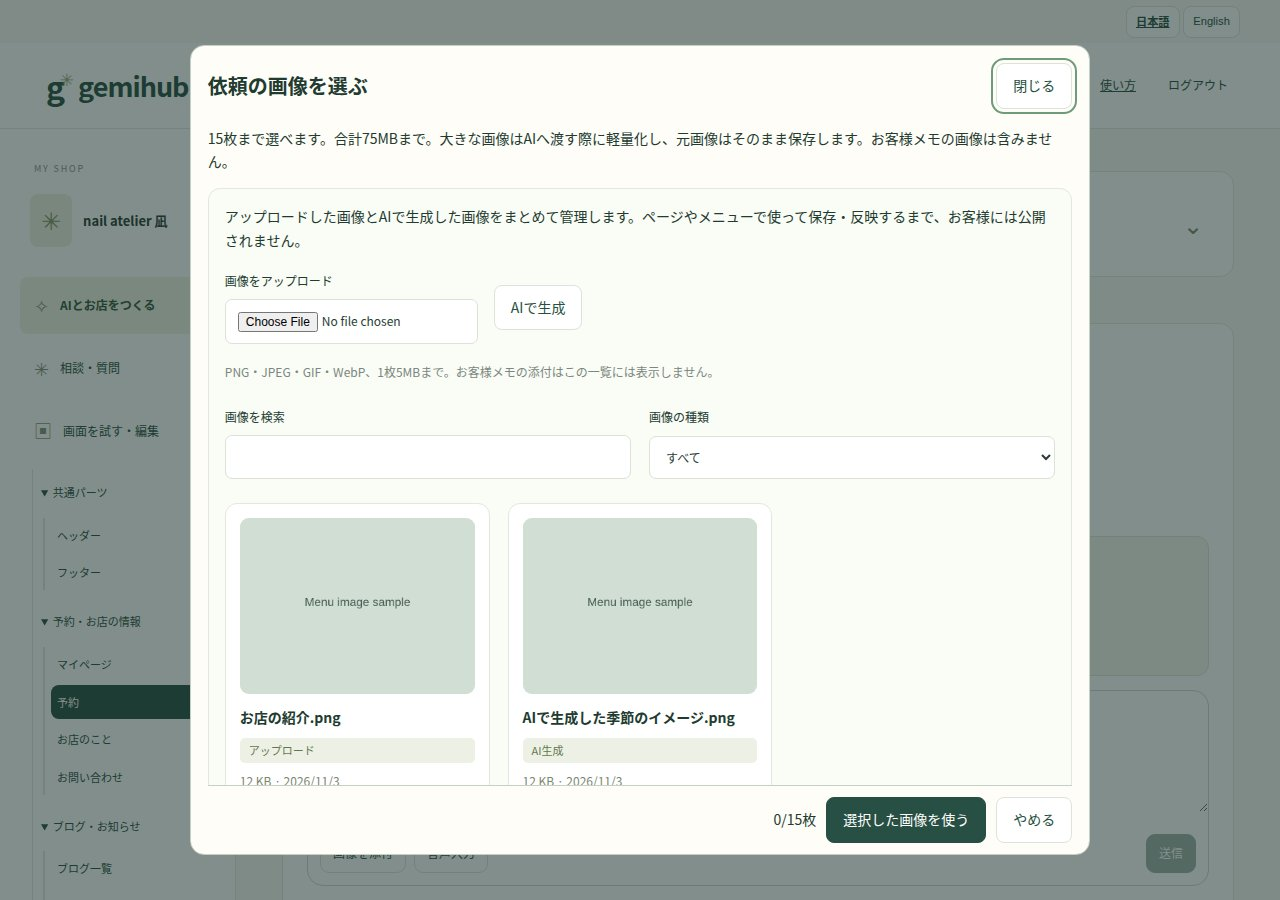
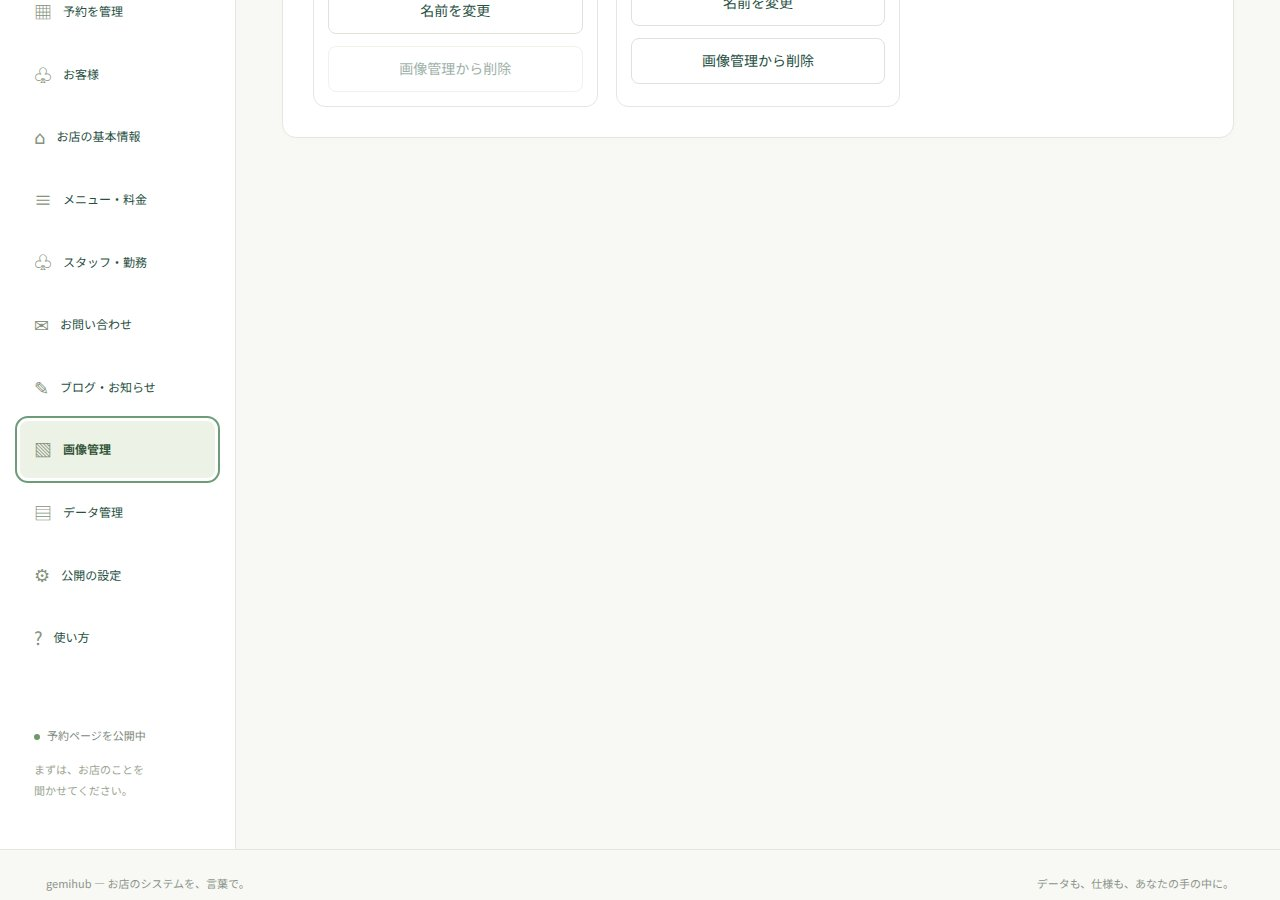
Finalize image management and operator shortcut controls

diff --git a/src/ImageLibrary.tsx b/src/ImageLibrary.tsx
@@ -7,9 +7,10 @@ import { CustomerImageDialog } from "./CustomerImages";
 import { createRequestId } from "./request-id";
 import { generateImageSchema, type GenerateImageInput, type LibraryImage } from "../server/image-library-domain";
 import { RequestImagePicker } from "./RequestImagePicker";
+import { ImageUploadStatus } from "./ImageUploadStatus";
 
 const toData = (file: File) => new Promise<string>((resolve, reject) => { const reader = new FileReader(); reader.onload = () => resolve(String(reader.result).split(",")[1]); reader.onerror = () => reject(new Error(tr("画像を読み込めませんでした"))); reader.readAsDataURL(file); });
-export function ImageLibrary({ shopId, onSelect, onCreated, onRemove, selectedIds = [], onImagesChange, onBusyChange, allowGeneration = true }: { shopId: string; onSelect?: (image: LibraryImage) => void; onCreated?: (image: LibraryImage) => boolean; onRemove?: (id: string) => void; selectedIds?: string[]; onImagesChange?: (images: LibraryImage[] | undefined) => void; onBusyChange?: (busy: boolean) => void; allowGeneration?: boolean }) {
+export function ImageLibrary({ shopId, mode = "manage", onSelect, onCreated, onRemove, selectedIds = [], onImagesChange, onBusyChange, allowGeneration = true }: { shopId: string; mode?: "manage" | "select"; onSelect?: (image: LibraryImage) => void; onCreated?: (image: LibraryImage) => boolean; onRemove?: (id: string) => void; selectedIds?: string[]; onImagesChange?: (images: LibraryImage[] | undefined) => void; onBusyChange?: (busy: boolean) => void; allowGeneration?: boolean }) {
   const api = useApi();
   const base = `/api/shops/${shopId}/images`;
   const pendingKey = `gemihub:image-generation:${shopId}`;
@@ -17,6 +18,8 @@ export function ImageLibrary({ shopId, onSelect, onCreated, onRemove, selectedId
   const [error, setError] = useState("");
   const [notice, setNotice] = useState("");
   const [busy, setBusy] = useState(false);
+  const [uploading, setUploading] = useState(false);
+  const managing = mode === "manage";
   const busyRef = useRef(false);
   const [listening, setListening] = useState(false);
   const [query, setQuery] = useState("");
@@ -49,11 +52,14 @@ export function ImageLibrary({ shopId, onSelect, onCreated, onRemove, selectedId
   async function run(action: () => Promise<void>) { if (busyRef.current) return; busyRef.current = true; setBusy(true); setError(""); setNotice(""); try { await action(); } catch (e) { setError(e instanceof Error ? e.message : String(e)); } finally { busyRef.current = false; setBusy(false); } }
   async function saveUpload(action: { file: File; requestId: string }) {
     await run(async () => {
-      const { imageId } = await api<{ imageId: string }>(base, { requestId: action.requestId, name: action.file.name, mimeType: action.file.type, data: await toData(action.file) });
-      const image: LibraryImage = { id: imageId, name: action.file.name.trim(), mimeType: action.file.type, size: action.file.size, source: "upload", createdAt: new Date().toISOString(), usedBy: [] };
-      setImages(current => [...(current || []).filter(item => item.id !== imageId), image]);
-      setUpload(undefined); setQuery(""); setSource("all");
-      setNotice(onCreated?.(image) === false ? tr("画像を保存しました。選択済みの画像を外してから、この画像を選んでください。") : tr("アップロードした画像を選択しました。内容を確認してから使用してください。"));
+      setUploading(true);
+      try {
+        const { imageId } = await api<{ imageId: string }>(base, { requestId: action.requestId, name: action.file.name, mimeType: action.file.type, data: await toData(action.file) });
+        const image: LibraryImage = { id: imageId, name: action.file.name.trim(), mimeType: action.file.type, size: action.file.size, source: "upload", createdAt: new Date().toISOString(), usedBy: [] };
+        setImages(current => [...(current || []).filter(item => item.id !== imageId), image]);
+        setUpload(undefined); setQuery(""); setSource("all");
+        setNotice(managing ? tr("画像をアップロードしました。") : onCreated?.(image) === false ? tr("画像を保存しました。選択済みの画像を外してから、この画像を選んでください。") : tr("アップロードした画像を選択しました。内容を確認してから使用してください。"));
+      } finally { setUploading(false); }
     });
   }
   function newGeneration() {
@@ -67,9 +73,9 @@ export function ImageLibrary({ shopId, onSelect, onCreated, onRemove, selectedId
   }
   const visible = images?.filter(image => (source === "all" || image.source === source) && `${image.name} ${image.prompt || ""}`.toLowerCase().includes(query.trim().toLowerCase()));
   const zoomIndex = visible?.findIndex(image => image.id === zoomId) ?? -1;
-  return <section className={onSelect ? "image-library image-picker-library" : "panel image-library"} aria-label={onSelect ? tr("画像を選ぶ") : tr("画像管理")}>
-    {!onSelect && <div className="section-top"><h2>{tr("画像管理")}</h2></div>}
-    <p>{tr("アップロードした画像とAIで生成した画像をまとめて管理します。ページやメニューで使って保存・反映するまで、お客様には公開されません。")}</p>
+  return <section className={managing ? "panel image-library" : "image-library image-picker-library"} aria-label={managing ? tr("画像管理") : tr("画像を選ぶ")}>
+    {managing && <div className="section-top"><h2>{tr("画像管理")}</h2></div>}
+    <p>{managing ? tr("アップロードした画像とAIで生成した画像をまとめて管理します。ページやメニューで使って保存・反映するまで、お客様には公開されません。") : allowGeneration ? tr("使う画像を選ぶか、その場でアップロード・AI生成できます。") : tr("使う画像を選ぶか、その場でアップロードできます。")}</p>
     {error && <p className="alert" role="alert">{error}<button type="button" disabled={busy} onClick={() => { setError(""); setAttempt(v => v + 1); }}>{tr("再試行")}</button></p>}{notice && <p className="notice" role="status">{notice}</p>}
     <div className="image-library-tools"><label>{tr("画像をアップロード")}<input type="file" accept="image/png,image/jpeg,image/gif,image/webp" disabled={busy || listening || !images} onChange={event => {
       const file = event.target.files?.[0]; event.target.value = ""; if (!file) return;
@@ -79,7 +85,8 @@ export function ImageLibrary({ shopId, onSelect, onCreated, onRemove, selectedId
     }} /></label>{allowGeneration && <button type="button" disabled={busy || listening} onClick={() => generatorOpen ? setGeneratorOpen(false) : startGeneration()}>{tr("AIで生成")}</button>}</div>
     <p className="small muted">{tr("PNG・JPEG・GIF・WebP、1枚5MBまで。お客様メモの添付はこの一覧には表示しません。")}</p>
     {upload && !busy && <button type="button" onClick={() => void saveUpload(upload)}>{tr("アップロードを再試行")}</button>}
-    {busy && !generatorOpen && <p role="status">{tr("画像を保存しています…")}</p>}
+    {uploading && <ImageUploadStatus name={upload?.file.name} />}
+    {busy && !uploading && !generatorOpen && <p role="status">{tr("画像を保存しています…")}</p>}
     {generatorOpen && <section className="image-generation" aria-label={tr("AIで画像を生成する")}>
       <h3>{tr("AIで画像を生成する")}</h3>
       {!generated && <>
@@ -104,7 +111,7 @@ export function ImageLibrary({ shopId, onSelect, onCreated, onRemove, selectedId
       <div className="actions"><button className="primary" type="submit" disabled={busy || listening || !prompt.trim() || !name.trim()}>{busy ? tr("画像を生成しています…") : pending ? tr("生成・保存を再試行") : tr("生成して結果を確認")}</button>{pending && <button type="button" disabled={busy || listening} onClick={newGeneration}>{tr("新しい生成として入力し直す")}</button>}</div>
     </form>}
     </>}
-    {generated && <section className="request-review image-generation-result" aria-label={tr("生成した画像を確認")}><span className="pill">{tr("確認")}</span><h3>{tr("生成した画像を確認")}</h3><MenuImage imageId={generated.id} imageBase={base} name={generated.name} className="library-image" /><p>{generated.name}</p><p className="small muted">{tr("画像を保存しました。「これでOK」で選択し、この画面で確定すると依頼や編集に使えます。")}</p><div className="actions"><button type="button" onClick={() => { setReference(generated.id); setGenerated(undefined); setMethod(undefined); setNotice(""); }}>{tr("さらに依頼する")}</button><button type="button" className="primary" disabled={!images?.some(image => image.id === generated.id)} onClick={() => { const image = images?.find(image => image.id === generated.id); if (image) onCreated?.(image); setGeneratorOpen(false); setQuery(""); setSource("all"); }}>{tr("これでOK")}</button></div></section>}
+    {generated && <section className="request-review image-generation-result" aria-label={tr("生成した画像を確認")}><span className="pill">{tr("確認")}</span><h3>{tr("生成した画像を確認")}</h3><MenuImage imageId={generated.id} imageBase={base} name={generated.name} className="library-image" /><p>{generated.name}</p><p className="small muted">{managing ? tr("画像管理に保存しました。ページやメニューの画像選択から使用できます。") : tr("画像を保存しました。「これでOK」で選択し、この画面で確定すると依頼や編集に使えます。")}</p><div className="actions"><button type="button" onClick={() => { setReference(generated.id); setGenerated(undefined); setMethod(undefined); setNotice(""); }}>{tr("さらに依頼する")}</button><button type="button" className="primary" disabled={!images?.some(image => image.id === generated.id)} onClick={() => { const image = images?.find(image => image.id === generated.id); if (image) onCreated?.(image); setGeneratorOpen(false); setQuery(""); setSource("all"); }}>{tr("これでOK")}</button></div></section>}
     </section>}
     <div className="customer-controls"><label>{tr("画像を検索")}<input type="search" value={query} onChange={event => setQuery(event.target.value)} /></label><label>{tr("画像の種類")}<select value={source} onChange={event => setSource(event.target.value)}><option value="all">{tr("すべて")}</option><option value="upload">{tr("アップロード")}</option><option value="ai">{tr("AI生成")}</option></select></label></div>
     {!images && !error && <p role="status">{tr("画像を読み込んでいます…")}</p>}
@@ -113,9 +120,11 @@ export function ImageLibrary({ shopId, onSelect, onCreated, onRemove, selectedId
       <button type="button" className="image-preview-button" aria-label={tr("{0}を拡大", image.name)} onClick={() => setZoomId(image.id)}><MenuImage imageId={image.id} imageBase={base} name={image.name} className="library-image" /></button>
       <figcaption><strong>{image.name}</strong><span className="pill">{image.source === "ai" ? tr("AI生成") : tr("アップロード")}</span><small>{Math.ceil(image.size / 1024)} KB{image.createdAt && ` · ${new Date(image.createdAt).toLocaleDateString(intlLocale())}`}</small>{image.usedBy.length > 0 && <p className="small muted">{tr("使用中：")}{image.usedBy.join("、")}</p>}</figcaption>
       {image.prompt && <details><summary>{tr("生成したときの指示")}</summary><p className="pre-wrap">{image.prompt}</p></details>}
-      <div className="actions">{onSelect && <button type="button" className="primary" aria-pressed={selectedIds.includes(image.id)} aria-label={tr("{0}を選択", image.name)} disabled={busy || listening} onClick={() => onSelect(image)}>{selectedIds.includes(image.id) ? tr("✓ 選択中") : tr("選択する")}</button>}{allowGeneration && <button type="button" disabled={busy || listening || !!pending} onClick={() => startGeneration(image.id)}>{tr("この画像をもとに生成")}</button>}</div>
+      <div className="actions">{onSelect && <button type="button" className="primary" aria-pressed={selectedIds.includes(image.id)} aria-label={tr("{0}を選択", image.name)} disabled={busy || listening} onClick={() => onSelect(image)}>{selectedIds.includes(image.id) ? tr("✓ 選択中") : tr("選択する")}</button>}{managing && allowGeneration && <button type="button" disabled={busy || listening || !!pending} onClick={() => startGeneration(image.id)}>{tr("この画像をもとに生成")}</button>}</div>
+      {managing && <>
       {editing?.id === image.id ? <form onSubmit={event => { event.preventDefault(); event.stopPropagation(); void run(async () => { await api(`${base}/${image.id}/rename`, { name: editing.name }); setEditing(undefined); setAttempt(v => v + 1); setNotice(tr("画像の名前を変更しました。")); }); }}><label>{tr("新しい画像名")}<input required maxLength={255} value={editing.name} disabled={busy} onChange={event => setEditing({ ...editing, name: event.target.value })} /></label><div className="actions"><button type="submit" disabled={busy}>{tr("名前を保存")}</button><button type="button" disabled={busy} onClick={() => setEditing(undefined)}>{tr("やめる")}</button></div></form> : <button type="button" disabled={busy} onClick={() => setEditing({ id: image.id, name: image.name })}>{tr("名前を変更")}</button>}
       {deleting === image.id ? <div className="notice">{tr("画像管理から削除します。Drive のファイルは残ります。")}<div className="actions"><button type="button" disabled={busy} onClick={() => void run(async () => { await api(`${base}/${image.id}/archive`, {}); onRemove?.(image.id); setDeleting(undefined); setAttempt(v => v + 1); setNotice(tr("画像管理から削除しました。")); })}>{tr("削除する")}</button><button type="button" disabled={busy} onClick={() => setDeleting(undefined)}>{tr("やめる")}</button></div></div> : <button type="button" disabled={busy || image.usedBy.length > 0} onClick={() => setDeleting(image.id)}>{tr("画像管理から削除")}</button>}
+      </>}
     </figure>)}</div>
     {zoomIndex >= 0 && <CustomerImageDialog items={visible!.map(image => ({ file: { id: image.id, name: image.name, mimeType: image.mimeType, size: image.size }, path: `${base}/${image.id}`, createdAt: image.createdAt || undefined }))} initialIndex={zoomIndex} close={() => setZoomId(undefined)} />}
   </section>;

diff --git a/src/App.tsx b/src/App.tsx
@@ -33,6 +33,7 @@ import "./style.css";
 import { LegacyNotes } from "./LegacyNotes";
 import { JudgeStart, JudgeMenu, JudgeBar, AccessPassword } from "./JudgeAccess";
 import { ShopReset } from "./ShopReset";
+import { ImageLibrary } from "./ImageLibrary";
 import { Admin } from "./Admin";
 import { Assistant } from "./Assistant";
 import { paid, createDisplay, useShopDisplay, ShopRegionContext } from "./money";
@@ -86,9 +87,20 @@ export function App({
   const [error, setError] = useState("");
   const [busy, setBusy] = useState(false);
   const [notice, setNotice] = useState("");
+  const [showOperatorControls, setShowOperatorControls] = useState(false);
   const refresh = () => api<Session>("/api/session").then(setSession);
   useEffect(() => {
     refresh().catch((e) => setError(e.message));
+  }, []);
+  useEffect(() => {
+    const toggleOperatorControls = (event: KeyboardEvent) => {
+      if (event.ctrlKey && event.shiftKey && !event.altKey && !event.metaKey && !event.isComposing && (event.code === "KeyL" || event.key.toLowerCase() === "l")) {
+        event.preventDefault();
+        if (!event.repeat) setShowOperatorControls(value => !value);
+      }
+    };
+    window.addEventListener("keydown", toggleOperatorControls);
+    return () => window.removeEventListener("keydown", toggleOperatorControls);
   }, []);
   async function run(fn: () => Promise<void>) {
     setBusy(true);
@@ -127,8 +139,8 @@ export function App({
           </span>
           {session.user?.role === "owner" && session.user.legacyNotes && <a className="text-button" href="/settings/migration">{tr("旧環境からの引き継ぎ")}</a>}
           {session.user?.judge && <a className="text-button" href="/judge-menu">{tr("審査メニュー")}</a>}
-          {session.user?.admin && <a className="text-button" href="/admin">{tr("運営管理")}</a>}
-          {session.user?.role === "owner" && session.user.shopId && !session.user.judge && !session.user.legacyNotes && !session.user.accessPending && <ShopReset shopId={session.user.shopId} navigate={navigate} />}
+          {showOperatorControls && session.user?.admin && <a className="text-button" href="/admin">{tr("運営管理")}</a>}
+          {session.user?.role === "owner" && session.user.shopId && !session.user.judge && !session.user.legacyNotes && !session.user.accessPending && <ShopReset shopId={session.user.shopId} navigate={navigate} showButton={showOperatorControls} />}
           {!session.user && <a className="text-button" href="/lp">{tr("サービス紹介")}</a>}
           {!isPublic && (
             <a className="text-button" href="/manual">
@@ -347,7 +359,7 @@ function Dashboard({
   const shop = shops.find((s) => s.id === chosen) || shops[0];
   const creating = !!shop?.isOwner && !shop.published;
   const view = creating ? "build" : tab;
-  useEffect(() => { if (shop && !shop.isOwner && ["try", "data"].includes(tab)) setTab("bookings"); }, [shop?.id, shop?.isOwner, tab]);
+  useEffect(() => { if (shop && !shop.isOwner && ["try", "data", "images"].includes(tab)) setTab("bookings"); }, [shop?.id, shop?.isOwner, tab]);
   const activePlan =
     plan && plan.base === shop?.revision && shop.plans.some((p) => p.id === plan.id)
       ? plan
@@ -398,7 +410,7 @@ function Dashboard({
             ["inquiries", "✉", tr("お問い合わせ")],
             ["blog", "✎", tr("ブログ・お知らせ")],
             ...(!shop?.isOwner ? [["staff", "♧", tr("自分のカレンダー")]] : []),
-            ...(shop?.isOwner ? [["data", "▤", tr("データ管理")]] : []),
+            ...(shop?.isOwner ? [["images", "▧", tr("画像管理")], ["data", "▤", tr("データ管理")]] : []),
             ["settings", "⚙", tr("公開の設定")],
             ["manual", "?", tr("使い方")],
           ].map(([id, icon, label]) => (
@@ -496,6 +508,7 @@ function Dashboard({
                 )}
                 {!creating && <div hidden={view!=="inquiries"}><Inquiries shopId={shop.id} inquiries={shop.inquiries}/></div>}
                 {view === "data" && shop.isOwner && <DataManagement key={shop.id} shopId={shop.id} open={setTab} showMenus={openDataMenu} />}
+                {view === "images" && shop.isOwner && <ImageLibrary key={shop.id} shopId={shop.id} />}
                 {view === "settings" && (
                   <Settings shop={shop} run={run} reload={load} hasLegacyNotes={!!session.user?.legacyNotes} />
                 )}

diff --git a/src/Manual.tsx b/src/Manual.tsx
@@ -269,15 +269,16 @@ const chapters: { id: string; title: string; steps: Step[] }[] = [
       {
         id: "image-library",
         get title() { return tr("画像をまとめて管理し、ページに使う"); },
-        get lead() { return tr("依頼や編集画面の画像選択モーダルで、画像のアップロード・AI生成・管理をまとめて行えます。"); },
+        get lead() { return tr("メニューの「画像管理」で画像を管理できます。依頼や編集時の画像選択では、アップロード・AI生成・選択ができます。"); },
         get instructions() { return [
           tr("チャットの「画像を添付」や編集画面の画像選択を開きます。「画像をアップロード」でPNG・JPEG・GIF・WebPの5MB以内の画像を選ぶと、自動で選択されます。最後に「選択した画像を使う」で確定します。検索・種類の絞り込み・拡大も同じ画面でできます。"),
           tr("登録時に使う画面を指定する必要はありません。使用中の画面名は一覧で確認できます。文章・音声・ペンで依頼するときやAIでページを作るときに、チャットの「画像を添付」（ペンでの依頼では「依頼に使う画像を選ぶ」）から管理画像を15枚まで（合計75MB以内）選び、どのように使いたいか伝えてください。変更案の確認・承認・公開まで本番には反映されません。"),
           tr("新しいページやAIが作ったページ案では、編集欄の「画像管理から選ぶ・AIで生成」から画像を選べます。共通ヘッダーとメニューにも同じ選択ボタンがあります。メニューの変更は「保存」で反映します。"),
-          tr("画像の「名前を変更」で名前を編集できます。使用していない画像は「画像管理から削除」から確認して削除できます。Drive のファイル本体は残ります。"),
+          tr("「この画像をもとに生成」「名前を変更」「画像管理から削除」は、メニューの「画像管理」だけに表示します。使用していない画像は確認して削除できます。Drive のファイル本体は残ります。"),
+          tr("アップロード中はスピナー・ファイル名・「画像をアップロードしています…」を表示します。表示が消えるまで待ち、失敗した場合は同じ画面から再試行してください。"),
         ]; },
         image: "30-image-library.jpg",
-        extra: [{ image: "32-page-image.jpg", get caption() { return tr("画像選択モーダルで、アップロード・AI生成・既存画像からの選択ができます。"); } }],
+        extra: [{ image: "32-page-image.jpg", get caption() { return tr("画像選択モーダルで、アップロード・AI生成・既存画像からの選択ができます。"); } }, { image: "36-image-uploading.jpg", get caption() { return tr("アップロード中はスピナーとファイル名を表示します。"); } }],
         get caption() { return tr("アップロード画像とAI生成画像を、使用中の画面名や登録元と一緒に管理する一覧。"); },
         get tip() { return tr("登録しただけではお客様には公開されません。お客様メモの画像は「お客様」の詳細にある「画像一覧」で確認できます。画像管理や依頼の画像選択には表示しません。使用中の画像は、ページやメニューから外して本番に反映してから削除してください。"); },
       },

diff --git a/src/stories/ImageLibrary.stories.tsx b/src/stories/ImageLibrary.stories.tsx
@@ -1,7 +1,7 @@
 import React from "react";
 import { tr } from "../../shared/i18n";
 import type { Meta, StoryObj } from "@storybook/react-vite";
-import { within, userEvent } from "storybook/test";
+import { within, userEvent, waitFor, expect } from "storybook/test";
 import { Screen } from "./Screen";
 const meta = { title: "運営/画像管理", component: Screen, parameters: { layout: "fullscreen" }, render: args => <Screen key={args.scenario} {...args} /> } satisfies Meta<typeof Screen>;
 export default meta;
@@ -12,7 +12,8 @@ async function openPicker(canvasElement: HTMLElement) {
   await userEvent.click(await canvas.findByRole("button", { name: tr("画像を添付") }));
   return within(await within(canvasElement.ownerDocument.body).findByRole("dialog", { name: tr("依頼の画像を選ぶ") }));
 }
-export const Library: Story = { name: "管理画像・アップロード・使用中の画面", args: { scenario: "image-library" }, play: async ({ canvasElement }) => { await openPicker(canvasElement); } };
+export const Library: Story = { name: "管理画像・アップロード・使用中の画面", args: { scenario: "image-library" }, play: async ({ canvasElement }) => { await userEvent.click(await within(canvasElement).findByRole("button", { name: new RegExp(tr("画像管理") + "$") })); } };
+export const Uploading: Story = { name: "画像アップロード中・スピナーとファイル名", args: { scenario: "image-library-uploading" }, play: async ({ canvasElement }) => { const input = await within(canvasElement).findByLabelText(tr("画像をアップロード")); await waitFor(() => expect(input).toBeEnabled()); await userEvent.upload(input, new File(["uploading"], "shop-photo.png", { type: "image/png" })); } };
 export const Generate: Story = { name: "文章で画像生成・参考画像", args: { scenario: "image-library-generation" }, play: async ({ canvasElement }) => { const picker = await openPicker(canvasElement); await userEvent.click(picker.getByRole("button", { name: tr("AIで生成") })); await userEvent.click(picker.getByRole("button", { name: new RegExp(tr("文章で依頼")) })); await userEvent.type(picker.getByLabelText(tr("生成したい画像")), "お店の紹介に使う、明るい窓辺と季節の花の画像"); } };
 export const GenerateMethods: Story = { name: "画像生成の依頼方法を選ぶ", args: { scenario: "image-library-generation" }, play: async ({ canvasElement }) => { const picker = await openPicker(canvasElement); await userEvent.click(picker.getByRole("button", { name: tr("AIで生成") })); } };
 export const GenerateVoice: Story = { name: "音声で画像生成・内容を確認", args: { scenario: "image-library-generation" }, play: async ({ canvasElement }) => { const picker = await openPicker(canvasElement); await userEvent.click(picker.getByRole("button", { name: tr("AIで生成") })); await userEvent.click(picker.getByRole("button", { name: new RegExp(tr("音声で依頼")) })); } };

diff --git a/src/RequestImagePicker.tsx b/src/RequestImagePicker.tsx
@@ -54,7 +54,7 @@ export function RequestImagePicker({ shopId, value, onChange, disabled = false, 
       <div className="section-top"><h2>{selectionOnly ? tr("画像を選ぶ") : tr("依頼の画像を選ぶ")}</h2><button type="button" disabled={working} onClick={() => setOpen(false)}>{tr("閉じる")}</button></div>
       <p>{tr("{0}枚まで選べます。", max)}{!selectionOnly && max > 1 && tr("合計75MBまで。大きな画像はAIへ渡す際に軽量化し、元画像はそのまま保存します。")}{tr("お客様メモの画像は含みません。")}</p>
       {error && <p className="alert" role="alert">{error}{!managed && !images && <button type="button" onClick={() => setAttempt(value => value + 1)}>{tr("再試行")}</button>}</p>}
-      {managed ? <ImageLibrary shopId={shopId} selectedIds={selection} onSelect={image => choose(image)} onCreated={image => choose(image, false)} onRemove={id => { setSelection(current => current.filter(item => item !== id)); if (value.includes(id)) onChange(value.filter(item => item !== id)); }} onImagesChange={receiveImages} onBusyChange={receiveBusy} allowGeneration={allowGeneration} /> : <>
+      {managed ? <ImageLibrary shopId={shopId} mode="select" selectedIds={selection} onSelect={image => choose(image)} onCreated={image => choose(image, false)} onImagesChange={receiveImages} onBusyChange={receiveBusy} allowGeneration={allowGeneration} /> : <>
         <div className="customer-controls"><label>{tr("画像を検索")}<input type="search" value={query} onChange={event => setQuery(event.target.value)} /></label><label>{tr("画像の種類")}<select value={source} onChange={event => setSource(event.target.value)}><option value="all">{tr("すべて")}</option><option value="upload">{tr("アップロード")}</option><option value="ai">{tr("AI生成")}</option></select></label></div>
         {!images && !error && <p role="status">{tr("画像を読み込んでいます…")}</p>}
         {images && !visible?.length && <p className="empty">{tr("条件に合う画像はありません。")}</p>}

diff --git a/src/MenuImage.tsx b/src/MenuImage.tsx
@@ -4,6 +4,7 @@ import { useApi } from "./api";
 import { createRequestId } from "./request-id";
 import { menuImageLimit, type MenuImageData } from "../server/menu-image-domain";
 import { RequestImagePicker } from "./RequestImagePicker";
+import { ImageUploadStatus } from "./ImageUploadStatus";
 
 export function MenuImage({ imageId, imageBase, suffix = "", name, className = "menu-image" }: { imageId?: string; imageBase: string; suffix?: string; name: string; className?: string }) {
   const api = useApi();
@@ -67,7 +68,7 @@ export function MenuImageEditor({ shopId, imageId, name, change, uploading, labe
       const action = { file, requestId: createRequestId() }; setPending(action); void upload(action);
     }} /></label>}
     <p className="small muted">{tr("1枚・5MBまで。アップロードした画像も画像管理に保存されます。画像を選んだ後、「保存」でお客様の画面に反映します。")}</p>
-    {busy && <p role="status">{tr("画像を保存しています…")}</p>}
+    {busy && <ImageUploadStatus name={pending?.file.name} />}
     {error && <p className="alert" role="alert">{error}</p>}
     <div className="actions">{pending && !busy && error && <button type="button" onClick={() => void upload(pending)}>{tr("画像の保存を再試行")}</button>}{imageId && <button type="button" disabled={busy} onClick={() => { change(undefined); setPending(undefined); setError(""); }}>{tr("画像を解除")}</button>}</div>
     </div>

diff --git a/src/ShopReset.tsx b/src/ShopReset.tsx
@@ -2,7 +2,7 @@ import React, { useRef, useState } from "react";
 import { tr } from "../shared/i18n";
 import { useApi } from "./api";
 
-export function ShopReset({ shopId, navigate }: { shopId: string; navigate: (href: string) => void }) {
+export function ShopReset({ shopId, navigate, showButton = true }: { shopId: string; navigate: (href: string) => void; showButton?: boolean }) {
   const api = useApi();
   const dialog = useRef<HTMLDialogElement>(null);
   const [busy, setBusy] = useState(false);
@@ -23,7 +23,7 @@ export function ShopReset({ shopId, navigate }: { shopId: string; navigate: (hre
     finally { setBusy(false); }
   };
   return <>
-    <button className="text-button" onClick={() => { setError(""); dialog.current?.showModal(); }}>{tr("自分のお店を初期化")}</button>
+    {showButton && <button className="text-button" onClick={() => { setError(""); dialog.current?.showModal(); }}>{tr("自分のお店を初期化")}</button>}
     <dialog ref={dialog} className="shop-reset-dialog" aria-labelledby="shop-reset-title" aria-describedby="shop-reset-description" onCancel={event => { if (busy) event.preventDefault(); }}>
       <h2 id="shop-reset-title">{tr("お店を最初から作り直しますか？")}</h2>
       <p id="shop-reset-description">{tr("自分のお店の公開ページを閉じ、設定・予約・問い合わせ・お客様・記事・画像・AIとの会話を初期化します。元に戻せません。")}</p>

diff --git a/src/style.css b/src/style.css
@@ -2310,6 +2310,14 @@ pre {
 .shop-reset-dialog h2 { margin-top: 0; font-size: 20px; }
 .shop-reset-dialog .actions { flex-wrap: wrap; }
 .shop-reset-dialog .danger { background: #963f32; color: white; border-color: #963f32; }
+.image-upload-status { display: flex; align-items: center; gap: 12px; padding: 14px 16px; margin: 12px 0; border: 1px solid #bfd4c3; border-radius: 10px; background: #eef5ee; color: var(--ink); }
+.image-upload-status > div { min-width: 0; display: grid; gap: 4px; }
+.image-upload-status strong { font-size: 14px; }
+.image-upload-status small { color: #536658; }
+.image-upload-name { font-size: 12px; overflow-wrap: anywhere; }
+.image-upload-spinner { width: 22px; height: 22px; flex-shrink: 0; border: 3px solid #d1dfd2; border-top-color: var(--green); border-radius: 50%; animation: image-upload-spin .8s linear infinite; }
+@keyframes image-upload-spin { to { transform: rotate(360deg); } }
+@media (prefers-reduced-motion: reduce) { .image-upload-spinner { animation: none; } }
 @media (max-width: 600px) { .judge-actions, .admin-actions { flex-direction: column; } .judge-actions > *, .admin-actions > * { width: 100%; } }
 /* Images sent with a chat message: thumbnails that keep their shape and open no wider than the bubble. */
 .chat-message-images { display: flex; flex-wrap: wrap; gap: 8px; margin-top: 10px; }

diff --git a/src/stories/mock.ts b/src/stories/mock.ts
@@ -57,6 +57,7 @@ export type Scenario =
   | "image-library-empty"
   | "image-library-generation"
   | "image-library-retry"
+  | "image-library-uploading"
   | "image-page"
   | "crm-list"
   | "crm-detail"
@@ -157,6 +158,7 @@ export function scenarioProps(scenario: Scenario) {
       (
         {
           "image-library": "build", "image-library-empty": "build", "image-library-generation": "build",
+          "image-library-uploading": "images",
           manual: "manual",
           system: "build",
           "us-settings": "basic", "us-menus": "menus",
@@ -482,6 +484,7 @@ export function createMockClient(scenario: Scenario): ApiClient {
       result = { ok: true };
     }
     else if ([`/api/shops/${shop.id}/menu-images`, `/api/shops/${shop.id}/images`].includes(action) && data !== undefined) {
+      if (scenario === "image-library-uploading") return new Promise<T>(() => {});
       const imageId = uploadedImages.get(String(input.requestId)) || String(menuImages.size + 1).padStart(64, "0");
       uploadedImages.set(String(input.requestId), imageId);
       menuImages.set(imageId, { mimeType: String(input.mimeType), data: String(input.data) }); result = { imageId };

diff --git a/src/ArticleImages.tsx b/src/ArticleImages.tsx
@@ -3,6 +3,7 @@ import React, { useEffect, useRef, useState } from "react";
 import { createPortal } from "react-dom";
 import { useApi } from "./api";
 import { RequestImagePicker } from "./RequestImagePicker";
+import { ImageUploadStatus } from "./ImageUploadStatus";
 import { createRequestId } from "./request-id";
 import { articleImagePath } from "../server/post-images";
 import { menuImageLimit } from "../server/menu-image-domain";
@@ -146,7 +147,7 @@ export function ArticleImageChooser({
           />
         </label>
       )}
-      {busy && <p role="status">{tr("画像を保存しています…")}</p>}
+      {busy && <ImageUploadStatus name={pending?.file.name} />}
       {error && (
         <p className="alert" role="alert">
           {error}

diff --git a/src/ImageUploadStatus.tsx b/src/ImageUploadStatus.tsx
@@ -1,0 +1,9 @@
+import React from "react";
+import { tr } from "../shared/i18n";
+
+export function ImageUploadStatus({ name }: { name?: string }) {
+  return <div className="image-upload-status" role="status">
+    <span className="image-upload-spinner" aria-hidden="true" />
+    <div><strong>{tr("画像をアップロードしています…")}</strong>{name && <span className="image-upload-name">{name}</span>}<small>{tr("完了するまで、この画面を開いたままお待ちください。")}</small></div>
+  </div>;
+}
